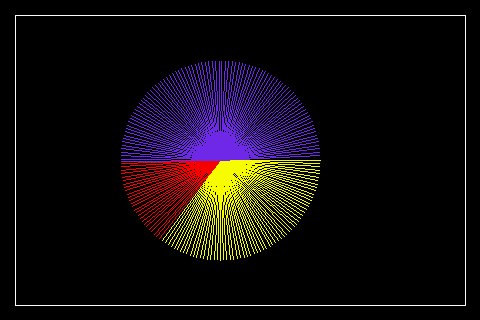
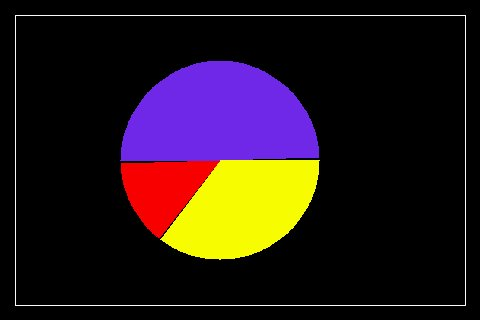
changing upie to use Vectorio Polygon

Changed region(s): [[0.25, 0.1875, 0.6875, 0.8125]]

diff --git a/circuitpython_uplot/upie.py b/circuitpython_uplot/upie.py
@@ -15,7 +15,7 @@ CircuitPython pie graph
 """
 
 import math
-import bitmaptools
+from vectorio import Polygon
 
 __version__ = "0.0.0+auto.0"
 __repo__ = "https://github.com/adafruit/CircuitPython_uplot.git"
@@ -26,7 +26,7 @@ class upie:
     Class to draw pie
     """
 
-    def __init__(self, plot, data: list, x: int = 130, y: int = 130, radius: int = 50):
+    def __init__(self, plot, data: list, x: int = 220, y: int = 160, radius: int = 100):
         """
 
         :param plot: Plot object for the upie to be drawn
@@ -39,22 +39,33 @@ class upie:
 
         plot._drawbox()
 
-        step = 2
+        step = 1
         total = sum(data)
         per = [int(i / total * 360) for i in data]
 
         start = 0
         end = 0
         index_color = 4
-
+        self.pointlist = [(x, y)]
         for pie in per:
             end = end + pie
             for i in range(start, end, step):
-                self.draw_lines(plot._plotbitmap, x, y, radius, i, index_color)
+                self.get_points(x, y, radius, i)
+            self.pointlist.append((x, y))
+            plot.append(
+                Polygon(
+                    pixel_shader=plot._plot_palette,
+                    points=self.pointlist,
+                    x=0,
+                    y=0,
+                    color_index=index_color,
+                )
+            )
             start = start + pie
             index_color = index_color + 1
+            self.pointlist = [(x, y)]
 
-    def draw_lines(self, bitmap, x, y, radius, angle, color):
+    def get_points(self, x, y, radius, angle):
         """
 
         :param bitmap: bitmap to be drawn in
@@ -66,11 +77,9 @@ class upie:
         :return: None
 
         """
-        return bitmaptools.draw_line(
-            bitmap,
-            x,
-            y,
-            x + int(radius * math.cos(angle * math.pi / 180)),
-            y + int(radius * math.sin(angle * math.pi / 180)),
-            color,
+        self.pointlist.append(
+            (
+                x + int(radius * math.cos(angle * math.pi / 180)),
+                y + int(radius * math.sin(angle * math.pi / 180)),
+            )
         )
